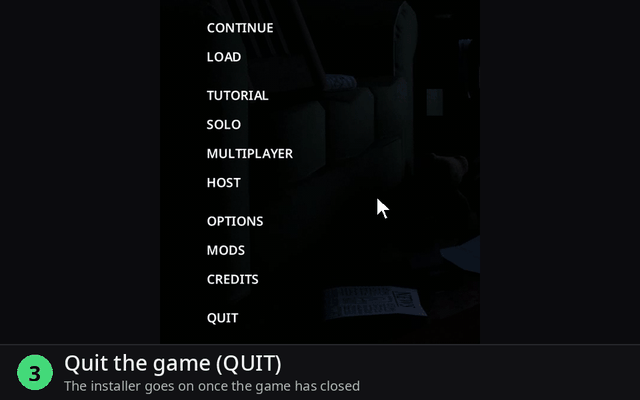
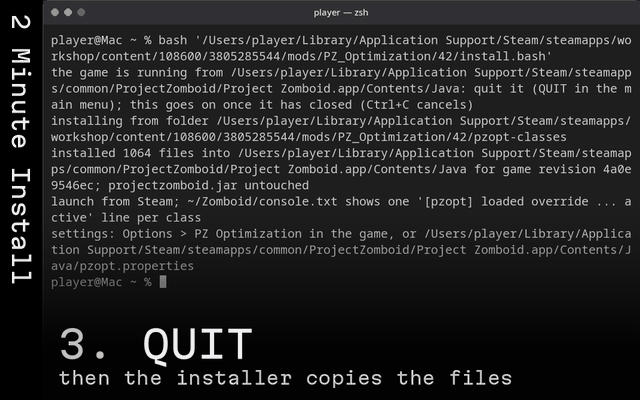
Workshop install helper: the in-game walkthrough in the new install template
harness/install-anim.py --helper-frames renders the frames the helper window plays from the same storyboard as the page's
install animations: the "2 Minute Install" strip, the helper's own four steps (1. COPY with the 5f910d9 window, 2. PASTE,
3. QUIT then the installer's lines, 4. PLAY with the headline footage), per OS its command, terminal and installer
output. 8 frames per OS (was 13), 640x400, 1.27 MB in all (was 1.6).

diff --git a/harness/install-anim.py b/harness/install-anim.py
@@ -47,8 +47,23 @@ SW, SH = SIZE - STRIP, SIZE
 FPS, FADE = 60, 0.35
 CAPTION, WHITE, DETAIL = (190, 190, 196), (240, 240, 244), (200, 200, 206)
 
-ITEM = r'C:\Program Files (x86)\Steam\steamapps\workshop\content\108600\3805285544\mods\PZ_Optimization\42'
-GAME = r'C:\Program Files (x86)\Steam\steamapps\common\ProjectZomboid'
+OSES = {   # the helper's command per OS (PZ_Optimization_InstallHelper.lua installCommand) and the installers' own lines
+    'win': dict(item=r'C:\Program Files (x86)\Steam\steamapps\workshop\content\108600\3805285544\mods\PZ_Optimization\42',
+                game=r'C:\Program Files (x86)\Steam\steamapps\common\ProjectZomboid', sep='\\', prompt='PS C:\\Users\\player> ',
+                shell='PowerShell (Start menu, type powershell, Enter)', paste='into PowerShell, press Enter',
+                console='C:\\Users\\player\\Zomboid\\console.txt', uninstall=' -Uninstall'),
+    'linux': dict(item='/home/player/.local/share/Steam/steamapps/workshop/content/108600/3805285544/mods/PZ_Optimization/42',
+                  game='/home/player/.local/share/Steam/steamapps/common/ProjectZomboid/projectzomboid', sep='/',
+                  prompt='player@pc:~$ ', shell='a terminal', paste='into a terminal, press Enter', console='~/Zomboid/console.txt',
+                  uninstall=' --uninstall'),
+    'mac': dict(item='/Users/player/Library/Application Support/Steam/steamapps/workshop/content/108600/3805285544/mods/PZ_Optimization/42',
+                game='/Users/player/Library/Application Support/Steam/steamapps/common/ProjectZomboid/Project Zomboid.app/Contents/Java',
+                sep='/', prompt='player@Mac ~ % ', shell='Terminal (Applications > Utilities)', paste='into Terminal, press Enter',
+                console='~/Zomboid/console.txt', uninstall=' --uninstall'),
+}
+OS = 'win'
+ITEM = OSES['win']['item']
+GAME = OSES['win']['game']
 REV, NFILES = '4a0e9546ec', 1064   # the 5f910d9 release (2026-10-07): pzopt-files.txt lists 1064 files
 COMMAND = f'powershell -ExecutionPolicy Bypass -File "{ITEM}\\install.ps1"'
 PROMPT = 'PS C:\\Users\\player> '
@@ -57,6 +72,35 @@ DONE = [f'installing from folder {ITEM}\\pzopt-classes',
         f'installed {NFILES} files into {GAME} for game revision {REV}; projectzomboid.jar untouched',
         "launch from Steam; C:\\Users\\player\\Zomboid\\console.txt shows one '[pzopt] loaded override ... active' line per class",
         f'settings: Options > PZ Optimization in the game, or {GAME}\\pzopt.properties']
+
+
+def set_os(o):
+    """Rebind the command, prompt and installer lines to one OS (install.ps1 on Windows, install.sh elsewhere)."""
+    global OS, ITEM, GAME, COMMAND, PROMPT, WAITING, DONE
+    OS, c = o, OSES[o]
+    ITEM, GAME, PROMPT = c['item'], c['game'], c['prompt']
+    if o == 'win':
+        COMMAND = f'powershell -ExecutionPolicy Bypass -File "{ITEM}\\install.ps1"'
+    else:
+        COMMAND = "bash '" + ITEM.replace("'", "'\\''") + "/install.bash'"
+    WAITING = (f'the game is running from {GAME}: quit it (QUIT in the main menu); this goes on once it has closed '
+               '(Ctrl+C cancels)')
+    sep = c['sep']
+    DONE = [f'installing from folder {ITEM}{sep}pzopt-classes',
+            f'installed {NFILES} files into {GAME} for game revision {REV}; projectzomboid.jar untouched',
+            f"launch from Steam; {c['console']} shows one '[pzopt] loaded override ... active' line per class",
+            f'settings: Options > PZ Optimization in the game, or {GAME}{sep}pzopt.properties']
+
+
+DET_PX = 16
+
+
+def set_canvas(w, h, strip, label_px, k, det_px):
+    """The canvas: w x h with a strip of `strip` px (the AVIFs 630 x 630 / 80; the helper's frames 960 x 600 / 64)."""
+    global SIZE, SW, SH, STRIP, LABEL_PX, K, DET_PX
+    SIZE, SH, STRIP, LABEL_PX, K, DET_PX = w, h, strip, label_px, k, det_px
+    SW = w - strip
+    _play.clear()
 
 
 HEADLINE = os.path.expanduser('~/Videos/Project Zomboid/Video_2026-10-06_16-23-03.mp4')   # the page headline's capture
@@ -120,7 +164,7 @@ HELPER_LINES = [   # PZ_Optimization_InstallHelper.lua as of the 5f910d9 release
     ("this item, and one command copies them in. The game does not load them from here.", None),
     ("", None),
     ("1. Copy the command below.", 'install'),
-    ("2. Open PowerShell (Start menu, type powershell, Enter), paste it, press Enter.", None),
+    ("2. Open {shell}, paste it, press Enter.", None),
     ("3. Quit the game (QUIT). The installer waits for that, then copies the files.", None),
     ("4. Start the game: Options now has a PZ Optimization tab.", None),
     ("", None),
@@ -131,6 +175,16 @@ HELPER_LINES = [   # PZ_Optimization_InstallHelper.lua as of the 5f910d9 release
 ]
 
 
+_frame01 = {}
+
+
+def helper_frame_01(o):
+    """The helper's own first walkthrough frame, as the window shows it (read once: --helper-frames rewrites the files)."""
+    if o not in _frame01:
+        _frame01[o] = Image.open(f'{REPO}/src/workshop/42/media/ui/pzopt_install/{o}/pzopt_install_{o}_01.png').convert('RGB')
+    return _frame01[o]
+
+
 def helper_window(screen, copied):
     """PZOptInstallHelper's layout (pad 20, the walkthrough frames 480x300 at k = 0.75, a command box under line 4 and
     the uninstall command under the last line, 25 px buttons) on the 4096x1691 menu; returns the window box and the
@@ -139,22 +193,23 @@ def helper_window(screen, copied):
     small, medium, code = font(18), font(24, 'Medium'), font(18, mono=True)
     sh_, mh, ch = 25, 32, 25
     pad, aw, ah = 20, 480, 300
-    cmds = {'install': COMMAND, 'uninstall': COMMAND + ' -Uninstall'}
-    w = max([aw, medium.getlength('PZ Optimization is not installed yet')] + [small.getlength(l) for l, _ in HELPER_LINES]
+    cmds = {'install': COMMAND, 'uninstall': COMMAND + OSES[OS]['uninstall']}
+    lines = [(l.format(shell=OSES[OS]['shell']), b) for l, b in HELPER_LINES]
+    w = max([aw, medium.getlength('PZ Optimization is not installed yet')] + [small.getlength(l) for l, _ in lines]
             + [code.getlength(c) + 16 for c in cmds.values()])
     w = int(w + 2 * pad)
-    h = pad + mh + 12 + ah + 12 + len(HELPER_LINES) * sh_ + len(cmds) * (ch + 24) + 12 + 25 + pad
+    h = pad + mh + 12 + ah + 12 + len(lines) * sh_ + len(cmds) * (ch + 24) + 12 + 25 + pad
     x0, y0 = (screen.width - w) // 2, (screen.height - h) // 2
     d.rectangle((x0, y0, x0 + w, y0 + h), fill=(0, 0, 0, 235), outline=(255, 255, 255, 102))
     y = y0 + pad
     d.text((x0 + pad, y), 'PZ Optimization is not installed yet', font=medium, fill=(255, 217, 102))
     y += mh + 12
-    fr = Image.open(f'{REPO}/src/workshop/42/media/ui/pzopt_install/win/pzopt_install_win_01.png').convert('RGB')
+    fr = helper_frame_01(OS)
     fx = x0 + (w - aw) // 2
     screen.paste(fr.resize((aw, ah), Image.LANCZOS), (fx, y))
     d.rectangle((fx, y, fx + aw, y + ah), outline=(128, 128, 128))
     y += ah + 12
-    for line, box in HELPER_LINES:
+    for line, box in lines:
         d.text((x0 + pad, y), line, font=small, fill=(255, 255, 255))
         y += sh_
         if box:
@@ -243,10 +298,24 @@ def win_frame(d, box, title, fs=1.0, dark=True):
 
 
 def terminal(screen, box, lines, cursor_on=True, fs=1.0):
-    """Windows Terminal with a Windows PowerShell tab: the lines wrapped at the window's width, the last rows that fit."""
+    """Windows Terminal with a Windows PowerShell tab (Linux: a plain terminal, macOS: Terminal with its traffic lights):
+    the lines wrapped at the window's width, the last rows that fit."""
     d = ImageDraw.Draw(screen)
     x0, y0, x1, y1 = box
     tb = round(40 * fs)
+    if OS != 'win':
+        d.rounded_rectangle(box, radius=round(10 * fs), fill=(30, 30, 30), outline=(80, 80, 88))
+        d.rectangle((x0 + 1, y0 + 1, x1 - 1, y0 + tb), fill=(48, 48, 52))
+        title = 'player@pc: ~' if OS == 'linux' else 'player \u2014 zsh'
+        d.text(((x0 + x1) / 2, y0 + tb / 2), title, font=font(round(15 * fs), 'Medium'), fill=(225, 225, 228), anchor='mm')
+        if OS == 'mac':
+            for i, col in enumerate(((255, 95, 86), (255, 189, 46), (39, 201, 63))):
+                cx = x0 + round((20 + i * 22) * fs)
+                d.ellipse((cx - 6 * fs, y0 + tb / 2 - 6 * fs, cx + 6 * fs, y0 + tb / 2 + 6 * fs), fill=col)
+        else:
+            caption_buttons(d, x1, y0 + tb / 2, fs)
+        _term_text(d, box, tb, lines, cursor_on, fs)
+        return
     d.rounded_rectangle(box, radius=round(8 * fs), fill=(12, 12, 12), outline=(70, 70, 74))
     d.rectangle((x0 + 1, y0 + 1, x1 - 1, y0 + tb), fill=(32, 32, 32))
     tab = (x0 + round(8 * fs), y0 + round(6 * fs), x0 + round(250 * fs), y0 + tb)
@@ -257,6 +326,11 @@ def terminal(screen, box, lines, cursor_on=True, fs=1.0):
     d.line((tx - r, ty + r, tx + r, ty - r), fill=(170, 170, 170), width=max(1, round(fs)))
     d.text((tab[2] + round(22 * fs), (tab[1] + tab[3]) / 2), '+', font=font(round(20 * fs)), fill=(200, 200, 200), anchor='mm')
     caption_buttons(d, x1, y0 + tb / 2, fs)
+    _term_text(d, box, tb, lines, cursor_on, fs)
+
+
+def _term_text(d, box, tb, lines, cursor_on, fs):
+    x0, y0, x1, y1 = box
     f = font(round(20 * fs), mono=True)
     cw, lh = f.getlength('M'), round(27 * fs)
     per = int((x1 - x0 - 28 * fs) // cw)
@@ -383,18 +457,19 @@ class Script:
             return s
         return self.screen(('helper', copied), make)
 
-    TERM = win_box(1500, 300, 800)
-
     def steps(self):
         self.with_helper(False)
         hb, (bx, by) = self.helper_box, self.copy_at
-        term = self.TERM
+        portrait = SH >= SW
+        term = win_box(1500, 300, 800 if portrait else 1000)
+        self.term = term
 
         def copy(lt):
             s = self.with_helper(lt >= 2.0)
             # inside the window from its left edge, the Copy button at ~70 % of the height (above the caption); what is
             # below the window falls under the caption's opaque bottom
-            c = (hb[0] + 4, hb[3] - 542, 620)
+            cw = 620 if portrait else 760
+            c = (hb[0] + 4, by - 0.70 * cw * SH / SW, cw)
             cx, cy = ease(hb[0] + 700, bx, 0.9, 1.8, lt), ease(hb[3] - 200, by, 0.9, 1.8, lt)
             return s, c, (cx, cy, 1.85 <= lt < 2.35)
 
@@ -420,7 +495,7 @@ class Script:
         def quit_(lt):
             s = self.with_helper(True)
             qy = STOCK_ROWS['QUIT'] + 10
-            c = cam(MENU_X + 260, STOCK_ROWS['OPTIONS'] - 260, 720)
+            c = cam(MENU_X + 260, qy - 0.62 * 720 * SH / SW, 720)
             cx, cy = ease(MENU_X + 420, MENU_X + 40, 0.3, 1.2, lt), ease(qy - 220, qy + 4, 0.3, 1.2, lt)
             if lt > 1.8:   # the game closes
                 k = min(1.0, (lt - 1.8) / 0.5)
@@ -682,7 +757,7 @@ def step_overlay(n, total, big, detail):
     img = Image.fromarray(g, 'RGBA')
     d = ImageDraw.Draw(img)
     pad = round(26 * K)
-    f_det, f_big = mfont(16), mfont(round(64 * K))
+    f_det, f_big = mfont(DET_PX), mfont(round(64 * K))
     y = SH - pad
     for line in reversed(detail):
         d.text((pad, y), line, font=f_det, fill=DETAIL, anchor='ls')
@@ -741,6 +816,71 @@ def render(name, menu, a):
     EA.encode(a, work, (SH, SIZE), a.out or (f'workshop-media/template-{name}.gif' if a.gif else f'workshop-media/{name}.avif'))
 
 
+# --- the Workshop item's in-game walkthrough (the helper window plays it above the command) ---------------------------
+
+HELPER_BEATS = [   # (Script step, lt s, hold ms, number, big word, detail): the helper's own four steps
+    ('COPY', 1.2, 700, 1, 'COPY', 'with the button in this window'),
+    ('COPY', 1.95, 600, 1, 'COPY', 'with the button in this window'),
+    ('COPY', 2.7, 1100, 1, 'COPY', 'with the button in this window'),
+    ('PASTE', 1.3, 1000, 2, 'PASTE', None),          # None: this OS's paste line
+    ('PASTE', 2.6, 1800, 2, 'PASTE', None),
+    ('QUIT', 1.45, 1300, 3, 'QUIT', 'the game: the installer waits for it'),
+    ('DONE', 1.6, 2200, 3, 'QUIT', 'then the installer copies the files'),
+    ('PLAY', 1.0, 2400, 4, 'PLAY', 'Options > PZ Optimization'),
+]
+
+
+def helper_frames(menu, a):
+    """src/workshop/42/media/ui/pzopt_install/<os>/pzopt_install_<os>_NN.png (640 x 400, the size the helper window
+    expects: it draws them at 480 x 300) + PZ_Optimization_InstallFrames.lua, from the Script storyboard on a 960 x 600
+    canvas (strip 64 px, bigger type for the small window). Replaces harness/install-walkthrough.py --frames."""
+    set_canvas(960, 600, 64, 34, 0.875, 26)
+    base = EA.chrome('light', '2 Minute Install', SH, SIZE, STRIP, LABEL_PX, round(26 * K))
+    root = os.path.join(REPO, 'src/workshop/42/media/ui/pzopt_install')
+    lua = ['-- generated by harness/install-anim.py --helper-frames: the install walkthrough frames the helper window plays',
+           '-- (media/ui/pzopt_install/<os>/pzopt_install_<os>_NN.png, hold time in ms)', 'PZOptInstallFrames = {']
+    total = 0
+    for o in ('win', 'linux', 'mac'):
+        helper_frame_01(o)
+    for o in ('win', 'linux', 'mac'):
+        set_os(o)
+        steps = {st[1]: st[3] for st in Script(menu).steps()}
+        if not a.still:
+            shutil.rmtree(os.path.join(root, o), ignore_errors=True)
+            os.makedirs(os.path.join(root, o))
+        lua.append(f'    {o} = {{')
+        for i, (step, lt, ms, n, big, det) in enumerate(HELPER_BEATS):
+            s, box, cur = steps[step](lt)
+            img = s.copy() if box is None else view(s, box)
+            if cur:
+                x0, y0, w = box
+                sc = SW / w
+                draw_cursor(img, (cur[0] - x0) * sc, (cur[1] - y0) * sc, cur[2])
+            img = img.convert('RGBA')
+            img.alpha_composite(step_overlay(n, 4, big, [det or OSES[o]['paste']]))
+            out = base.copy()
+            out.paste(img.convert('RGB'), (STRIP, 0))
+            if a.still:
+                if o == a.os and i == a.beat:
+                    out.save(a.still)
+                    print('still', a.still, o, step, lt)
+                continue
+            # a unique name: getTexture looks the bare file name up in the game's texture packs first
+            f = os.path.join(root, o, f'pzopt_install_{o}_{i + 1:02d}.png')
+            out.resize((640, 400), Image.LANCZOS).quantize(colors=128, method=Image.Quantize.MEDIANCUT,
+                                                           dither=Image.Dither.NONE).save(f, optimize=True)
+            total += os.path.getsize(f)
+            lua.append(f'        {{ "media/ui/pzopt_install/{o}/pzopt_install_{o}_{i + 1:02d}.png", {ms} }},')
+        lua.append('    },')
+    lua.append('}')
+    set_os('win')
+    if a.still:
+        return
+    with open(os.path.join(REPO, 'src/workshop/42/media/lua/client/PZ_Optimization_InstallFrames.lua'), 'w') as fh:
+        fh.write('\n'.join(lua) + '\n')
+    print(f'helper frames: {len(HELPER_BEATS)} per OS, {total / 1e6:.2f} MB in all under {root}')
+
+
 def main():
     ap = argparse.ArgumentParser()
     ap.add_argument('--menu', required=True, help='the main menu screenshot (pzopt-menu.png of a compat_check=1 run)')
@@ -750,9 +890,15 @@ def main():
     ap.add_argument('--gif-fps', default='25')
     ap.add_argument('--crf', default='35')
     ap.add_argument('--out')
-    ap.add_argument('names', nargs='+')
+    ap.add_argument('--helper-frames', action='store_true', help="write the Workshop item's in-game walkthrough frames")
+    ap.add_argument('--os', default='win', help='with --helper-frames --still: the OS of the frame')
+    ap.add_argument('--beat', type=int, default=0, help='with --helper-frames --still: the frame index')
+    ap.add_argument('names', nargs='*')
     a = ap.parse_args()
     menu = Image.open(a.menu).convert('RGB')
+    if a.helper_frames:
+        helper_frames(menu, a)
+        return
     for name in a.names:
         render(name, menu, a)
 

diff --git a/harness/CLAUDE.md b/harness/CLAUDE.md
@@ -559,7 +559,7 @@ same window with `harness/mp/window.py <run>:27 ...`; results in `docs/archive/2
 | `stitch-outlines.py <run> [--crop x0,y0,x1,y1] [--loops N] [--still png]` | one `devCapture` run with `--prop occludedZombieOutlines=true --prop devOutlineAlternate=MS` (the console logs `occluded outlines: phase on|off at <epoch ms>`) | the occluded-outlines OFF / ON video (2026-10-03): each OFF frame beside the ON frame at the same offset of the next period, SDR intermediate then `encode-av1-hdr.sh`. Rig of the published one: `--flag start=8170,11500 --flag zoom=1 --flag crowd=200 --flag crowd_min=3 --flag crowd_max=26 --flag route=S:1 --flag speed=0.03 --route-seconds 32 --prop occludedOutlineWidth=2 --prop devOutlineAlternate=2500 --prop devCapture=8,21,10,100,crop=0:0:2560:1440,ram`, stitched with `--crop 300,100,1580,1180`. Cost: `--prop devOutlineTiming=true --prop devOutlineAlternate=1000` (frame ms on / off every 10 s); `--prop devOutlineView=1` paints the stencil codes |
 | `stitch-glass.sh <out.mp4>` (`DRY=1` parses the filter graph only) | four `--record` runs of 2026-10-02: `gv-shelter-before/-after` (Riverside bus shelter, `--flag start=6207,5288 --flag face=45 --flag pin_zombies=6208,5290/6209,5289/6211,5289`) and `gv-rail-before/-after` (`--flag start=6206,5287 --flag face=180 --flag place_tile=location_shop_mall_01_24@6203,5285..5288 --flag pin_zombies=6202,5285/6202,5286/6202,5288`), all `--mode bench --flag zoom=1 --flag time_of_day=14 --flag weather=clear --flag route=S:1 --flag speed=0.05 --route-seconds 14 --record --prop overlay=false`, before = `--prop windowsInChunkTexture=true --prop glassTilesPerFrame=false` | `docs/media/glass-behind-before-after.mp4` (AV1 HDR 3840x1334, 16 s, two segments, 2x nearest crops) + poster `.jpg`: characters behind glass, the released bake vs the fix; a queue `media` job |
 | `stitch-vehspawn.sh <before-run-dir> <after-run-dir> <out>` | two recordings of the vehicle-spawn rig (2026-09-23, Workshop "cars barely spawn"): `--mode bench --flag start=15580,2885 --flag settle=20 --flag route=S:160 --flag speed=8 --flag zoom=max --flag zombies=off --flag see_all=true --flag car_spawn=5 --flag time_of_day=12 --route-seconds 25 --record --prop overlay=false`, before = the released IsoChunk, after = the `AddVehicles_OnZone` fix (runs `vehspawn-before-20260923-035043` 2 vehicles, `vehspawn-after-20260923-035201` 68) | `docs/media/vehicle-spawn-before-vs-after.mp4` (AV1 HDR 5120x1730, 24 s): both panels at half size aligned on the route onset, `vehicles_loaded` per side |
-| `install-anim.py --menu <png> [--still png --t s] [--gif] install-script install-manual` | the game's own main-menu screenshot of a `--flag compat_check=1` run and desktop captures of the Mods screen (`mods-desk-{1,2}.png`, a `--flag mods_shot=1 --flag mods_search=PZ_Opt` run: `pzopt_harness_mods.lua` opens MODS, selects / ticks the row, writes `Lua/pzopt-mods-<n>.txt` markers for a spectacle wrapper, quits without Accept; the game's TakeFullScreenshot reads the logical 4096x1728 under 125 % desktop scaling, top cut), copies in `workshop-media/install-shots/`, + the headline's capture | the Workshop page's install walkthroughs in the 630 AVIF template (2026-10-07), strip "2 Minute Install": `install-script` = SUBSCRIBE, ENABLE (Mods list), COPY (helper window), PASTE (PowerShell), QUIT, DONE (install.ps1's own lines), PLAY (headline footage); `install-manual` = SUBSCRIBE, FIND (Browse local files, up to steamapps, down to the item's `42/pzopt-classes`), COPY, PASTE (game folder), PLAY. `workshop-media/install-{script,manual}.avif`; a queue `media` job |
+| `install-anim.py --menu <png> [--still png --t s] [--gif] install-script install-manual` / `--helper-frames [--still png --os win --beat N]` | the game's own main-menu screenshot of a `--flag compat_check=1` run and desktop captures of the Mods screen (`mods-desk-{1,2}.png`, a `--flag mods_shot=1 --flag mods_search=PZ_Opt` run: `pzopt_harness_mods.lua` opens MODS, selects / ticks the row, writes `Lua/pzopt-mods-<n>.txt` markers for a spectacle wrapper, quits without Accept; the game's TakeFullScreenshot reads the logical 4096x1728 under 125 % desktop scaling, top cut), copies in `workshop-media/install-shots/`, + the headline's capture | the Workshop page's install walkthroughs in the 630 AVIF template (2026-10-07), strip "2 Minute Install": `install-script` = SUBSCRIBE, ENABLE (Mods list), COPY (helper window), PASTE (PowerShell), QUIT, DONE (install.ps1's own lines), PLAY (headline footage); `install-manual` = SUBSCRIBE, FIND (Browse local files, up to steamapps, down to the item's `42/pzopt-classes`), COPY, PASTE (game folder), PLAY. `workshop-media/install-{script,manual}.avif`; `--helper-frames` = the Workshop helper window's in-game walkthrough from the same storyboard (1. COPY, 2. PASTE, 3. QUIT + the installer's lines, 4. PLAY; per OS its command, terminal and install.ps1 / install.sh lines; 8 PNGs per OS at 640x400 + `PZ_Optimization_InstallFrames.lua`; replaces `install-walkthrough.py --frames`); a queue `media` job |
 | `stitch-cansee.sh <broken> <fixed> <out>` | two `lure=cow` recordings (`cansee-broken` = HEAD a7ca5b2, `cansee-fixed2` = HEAD + the cast) | `docs/media/cansee-lure-before-vs-after.mp4` (AV1 HDR, 3840x1302, 24 s): before / after panels cut 1.5 s before the cow's first frame (`START_BAD=19.8 START_FIX=19.0`), StackOverflowError count from the consoles, left audio = before |
 | `stitch-thump.py <before> <after> <out>` | two `thump=3` recordings (run recipe in its docstring; before with `--prop devActionEvalUnitMultiplier=true`) | `docs/media/zombie-thump-offscreen-before-vs-after.mp4`: both cut 2 s before the zombie spawn (console epoch vs file birth), crop around the player and the door, phase captions, the per-second `harness: thump` counters burned in (half-open `gte*lt` ranges: `between` shows two values on a boundary frame), left audio = before. Record with the overlay panels off (`overlayTree/Flame/Graph/Verdict=off overlayStats=fps`), the flame graph covered the door |
 | `stitch-overlay-sizes.sh [out]` | the `ovr-resp-5120x2160` and `ovr-resp4-{1920x1080,1280x720,1024x768}` spin recordings (overlay on; the small ones windowed with `--option borderless=false --option fullScreen=false --option width= --option height=`, centred on the desktop, cropped to the client area, which sits exactly at the centre) | `docs/media/overlay-responsive-4-screen-sizes.mp4` (AV1 HDR 5120x2600, 26 s, 2026-09-22): the responsive overlay at four screen sizes, the small ones 1:1 |
